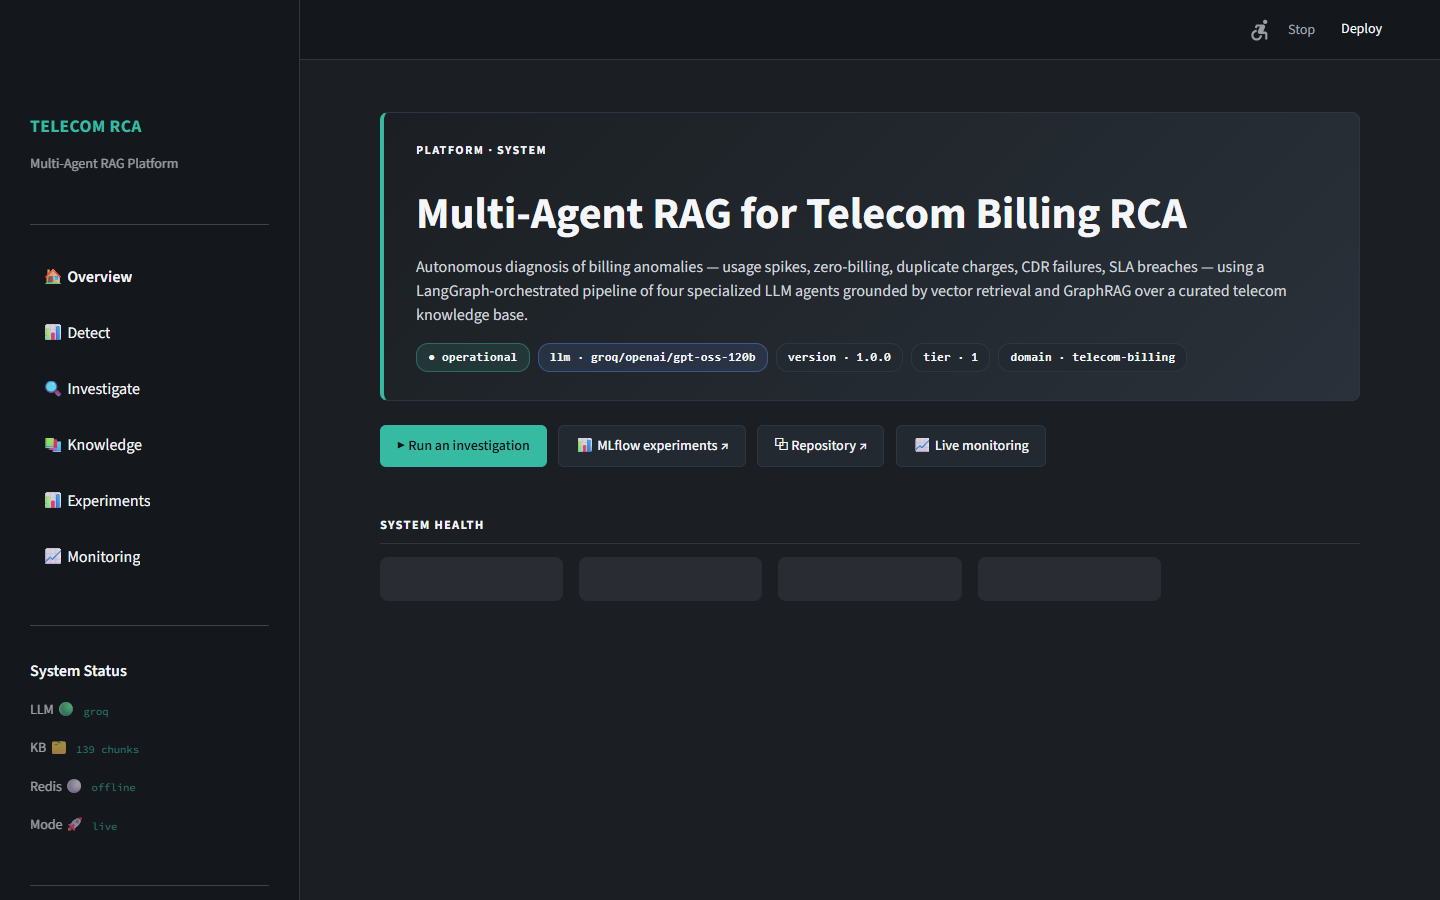
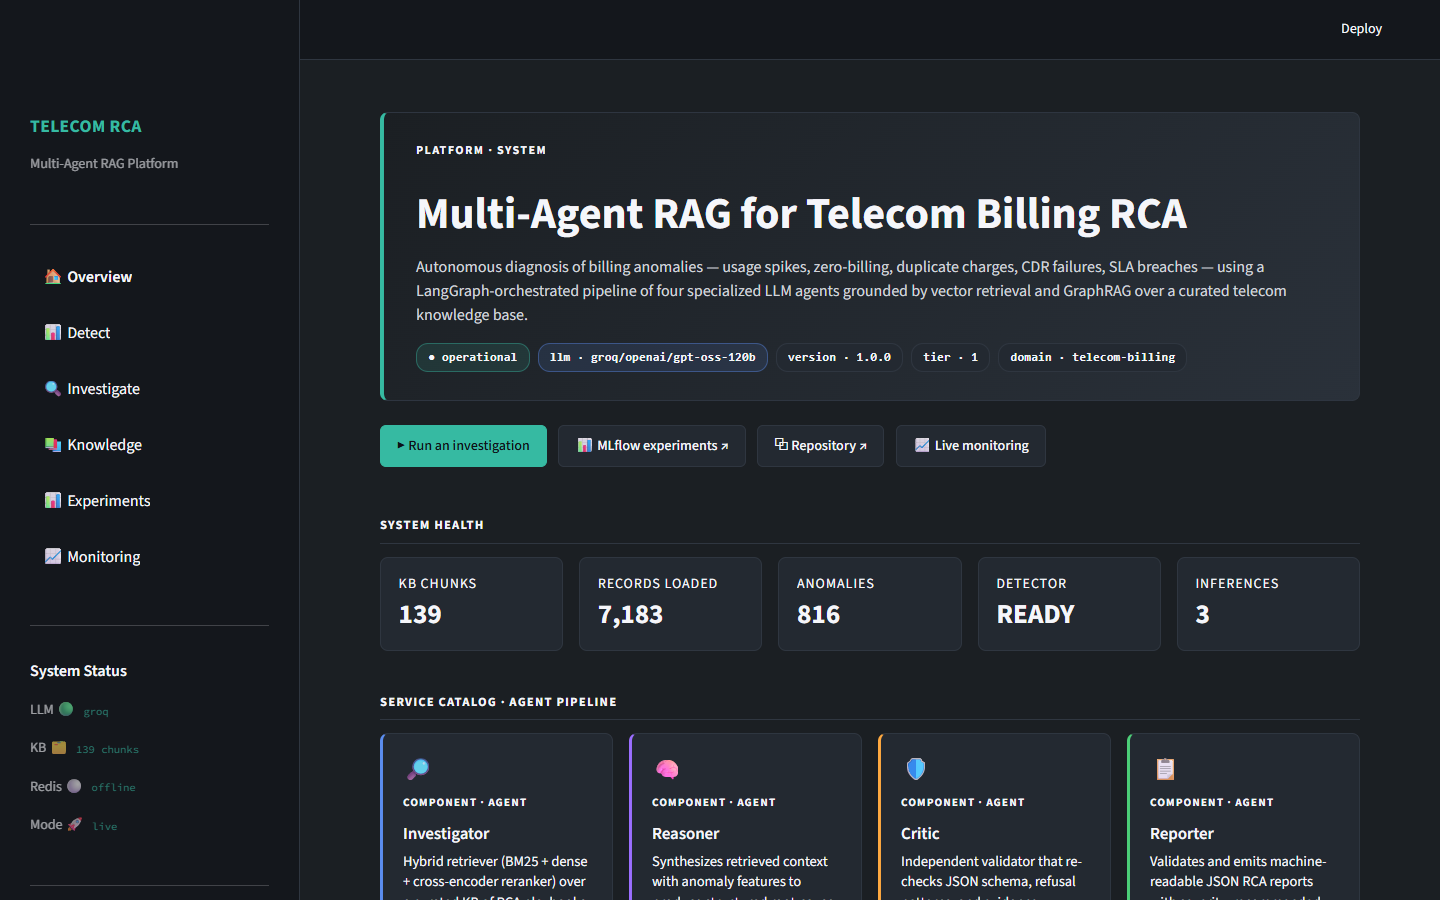
fix: overview card sizing with flexbox, colored owner/stage chips, per-card accents, 116-test count

diff --git a/app.py b/app.py
@@ -162,12 +162,18 @@ st.markdown("""
     .bs-card {
         background: var(--bg-card);
         border: 1px solid var(--border);
+        border-left: 3px solid var(--card-accent, var(--border));
         border-radius: 8px;
         padding: 1.1rem 1.25rem;
         height: 100%;
+        min-height: 15rem;
+        display: flex;
+        flex-direction: column;
+        min-width: 0;
+        overflow-wrap: break-word;
         transition: border-color 0.15s;
     }
-    .bs-card:hover { border-color: var(--accent); }
+    .bs-card:hover { border-color: var(--accent); border-left-color: var(--card-accent, var(--accent)); }
     .bs-card-icon { font-size: 1.4rem; margin-bottom: 0.4rem; }
     .bs-card-title {
         color: var(--text-primary);
@@ -192,11 +198,31 @@ st.markdown("""
     .bs-card-meta {
         font-size: 0.78rem;
         color: var(--text-muted);
-        font-family: 'SF Mono', Consolas, monospace;
         border-top: 1px solid var(--border);
-        padding-top: 0.5rem;
-        margin-top: 0.4rem;
+        padding-top: 0.6rem;
+        margin-top: auto;
+        display: flex;
+        flex-wrap: wrap;
+        gap: 0.35rem;
     }
+    .stApp .bs-chip {
+        display: inline-block;
+        padding: 0.15rem 0.55rem;
+        border-radius: 999px;
+        font-size: 0.72rem;
+        font-weight: 600;
+        font-family: 'SF Mono', Consolas, monospace;
+        border: 1px solid var(--border);
+        color: var(--text-secondary);
+        background: rgba(255,255,255,0.03);
+        white-space: nowrap;
+    }
+    .stApp .bs-chip-owner    { color: #7ee0cb; border-color: #2a5a50; background: rgba(54,186,162,0.10); }
+    .stApp .bs-chip-rag      { color: #8ab4f8; border-color: #2c4a7a; background: rgba(91,141,239,0.12); }
+    .stApp .bs-chip-reason   { color: #c9a6ff; border-color: #4d3a78; background: rgba(155,110,255,0.12); }
+    .stApp .bs-chip-validate { color: #ffce6b; border-color: #6e5322; background: rgba(255,169,64,0.12);  }
+    .stApp .bs-chip-output   { color: #7ed99a; border-color: #2c5e3d; background: rgba(76,207,120,0.12);  }
+    .stApp .bs-chip-infra    { color: #f096b6; border-color: #6b3548; background: rgba(233,105,149,0.12); }
 
     div[data-testid="stMetric"] {
         background: var(--bg-card);
@@ -415,58 +441,58 @@ with c5: st.metric("Inferences", f"{infer_summary['total']:,}")
 # Service Catalog — agents
 st.markdown('<div class="bs-section">Service Catalog · Agent Pipeline</div>', unsafe_allow_html=True)
 cards = [
-    {"icon": "🔎", "kind": "Component · Agent", "title": "Investigator",
+    {"icon": "🔎", "kind": "Component · Agent", "title": "Investigator", "accent": "#5b8def",
      "desc": "Hybrid retriever (BM25 + dense + cross-encoder reranker) over a curated KB of RCA playbooks, SLA contracts, and historical incidents.",
-     "meta": "owner: tatsat · stage: rag"},
-    {"icon": "🧠", "kind": "Component · Agent", "title": "Reasoner",
+     "chips": '<span class="bs-chip bs-chip-owner">owner: tatsat</span><span class="bs-chip bs-chip-rag">stage: rag</span>'},
+    {"icon": "🧠", "kind": "Component · Agent", "title": "Reasoner", "accent": "#9b6eff",
      "desc": "Synthesizes retrieved context with anomaly features to produce structured root-cause hypotheses with explicit evidence chains and confidence scoring.",
-     "meta": "owner: tatsat · stage: reasoning"},
-    {"icon": "🛡️", "kind": "Component · Agent", "title": "Critic",
+     "chips": '<span class="bs-chip bs-chip-owner">owner: tatsat</span><span class="bs-chip bs-chip-reason">stage: reasoning</span>'},
+    {"icon": "🛡️", "kind": "Component · Agent", "title": "Critic", "accent": "#ffa940",
      "desc": "Independent validator that re-checks JSON schema, refusal patterns, and evidence-grounding before the report is published.",
-     "meta": "owner: tatsat · stage: validation"},
-    {"icon": "📋", "kind": "Component · Agent", "title": "Reporter",
+     "chips": '<span class="bs-chip bs-chip-owner">owner: tatsat</span><span class="bs-chip bs-chip-validate">stage: validation</span>'},
+    {"icon": "📋", "kind": "Component · Agent", "title": "Reporter", "accent": "#4ccf78",
      "desc": "Validates and emits machine-readable JSON RCA reports with severity, recommended actions, and audit metadata for downstream ticketing.",
-     "meta": "owner: tatsat · stage: output"},
+     "chips": '<span class="bs-chip bs-chip-owner">owner: tatsat</span><span class="bs-chip bs-chip-output">stage: output</span>'},
 ]
 cols = st.columns(4)
 for col, c in zip(cols, cards):
     with col:
         st.markdown(f"""
-        <div class="bs-card">
+        <div class="bs-card" style="--card-accent: {c['accent']};">
             <div class="bs-card-icon">{c['icon']}</div>
             <div class="bs-card-kind">{c['kind']}</div>
             <div class="bs-card-title">{c['title']}</div>
             <div class="bs-card-desc">{c['desc']}</div>
-            <div class="bs-card-meta">{c['meta']}</div>
+            <div class="bs-card-meta">{c['chips']}</div>
         </div>
         """, unsafe_allow_html=True)
 
 # Service Catalog — data + infra
 st.markdown('<div class="bs-section">Service Catalog · Data & Infra</div>', unsafe_allow_html=True)
 infra = [
-    {"icon": "🗂", "kind": "Resource · Vector DB", "title": "ChromaDB",
+    {"icon": "🗂", "kind": "Resource · Vector DB", "title": "ChromaDB", "accent": "#36baa2",
      "desc": f"Embedding store backing the RAG retriever. {kb_count:,} chunks indexed via sentence-transformers (all-MiniLM-L6-v2).",
-     "meta": "type: vector-store · backend: sqlite"},
-    {"icon": "📦", "kind": "Resource · Dataset", "title": "Telco Billing Corpus",
+     "chips": '<span class="bs-chip bs-chip-rag">type: vector-store</span><span class="bs-chip">backend: sqlite</span>'},
+    {"icon": "📦", "kind": "Resource · Dataset", "title": "Telco Billing Corpus", "accent": "#e96995",
      "desc": "IBM Telco (7K) + Maven Telecom (7K) + SEBD Enterprise Billing (54K). Labeled anomalies across 5 types.",
-     "meta": "records: 68k · types: 5"},
-    {"icon": "🤖", "kind": "Resource · ML Model", "title": "IsolationForest + Rule Pre-filter",
+     "chips": '<span class="bs-chip bs-chip-infra">records: 68k</span><span class="bs-chip">types: 5</span>'},
+    {"icon": "🤖", "kind": "Resource · ML Model", "title": "IsolationForest + Rule Pre-filter", "accent": "#ffa940",
      "desc": "Unsupervised anomaly detector with rule-based pre-filter. Trained on tenure, monthly_charges, total_charges.",
-     "meta": "framework: scikit-learn"},
-    {"icon": "📊", "kind": "Resource · Tracking", "title": "MLflow",
+     "chips": '<span class="bs-chip bs-chip-validate">framework: scikit-learn</span>'},
+    {"icon": "📊", "kind": "Resource · Tracking", "title": "MLflow", "accent": "#5b8def",
      "desc": "Experiment tracking for every ablation run: metrics, params, artifacts. File-store at <code>mlruns/</code>.",
-     "meta": "ui: localhost:5000"},
+     "chips": '<span class="bs-chip bs-chip-output">ui: localhost:5000</span>'},
 ]
 cols = st.columns(4)
 for col, c in zip(cols, infra):
     with col:
         st.markdown(f"""
-        <div class="bs-card">
+        <div class="bs-card" style="--card-accent: {c['accent']};">
             <div class="bs-card-icon">{c['icon']}</div>
             <div class="bs-card-kind">{c['kind']}</div>
             <div class="bs-card-title">{c['title']}</div>
             <div class="bs-card-desc">{c['desc']}</div>
-            <div class="bs-card-meta">{c['meta']}</div>
+            <div class="bs-card-meta">{c['chips']}</div>
         </div>
         """, unsafe_allow_html=True)
 
@@ -513,7 +539,7 @@ with tab_about:
     paired-bootstrap, and Wilcoxon signed-rank testing.
 
     **Reproducibility.** Configurable OpenAI-compatible LLM backend (Groq/OpenRouter),
-    file-backed MLflow tracking, deterministic seeded test set, and 87-test pytest suite.
+    file-backed MLflow tracking, deterministic seeded test set, and 116-test pytest suite.
     """)
 
 with tab_arch: